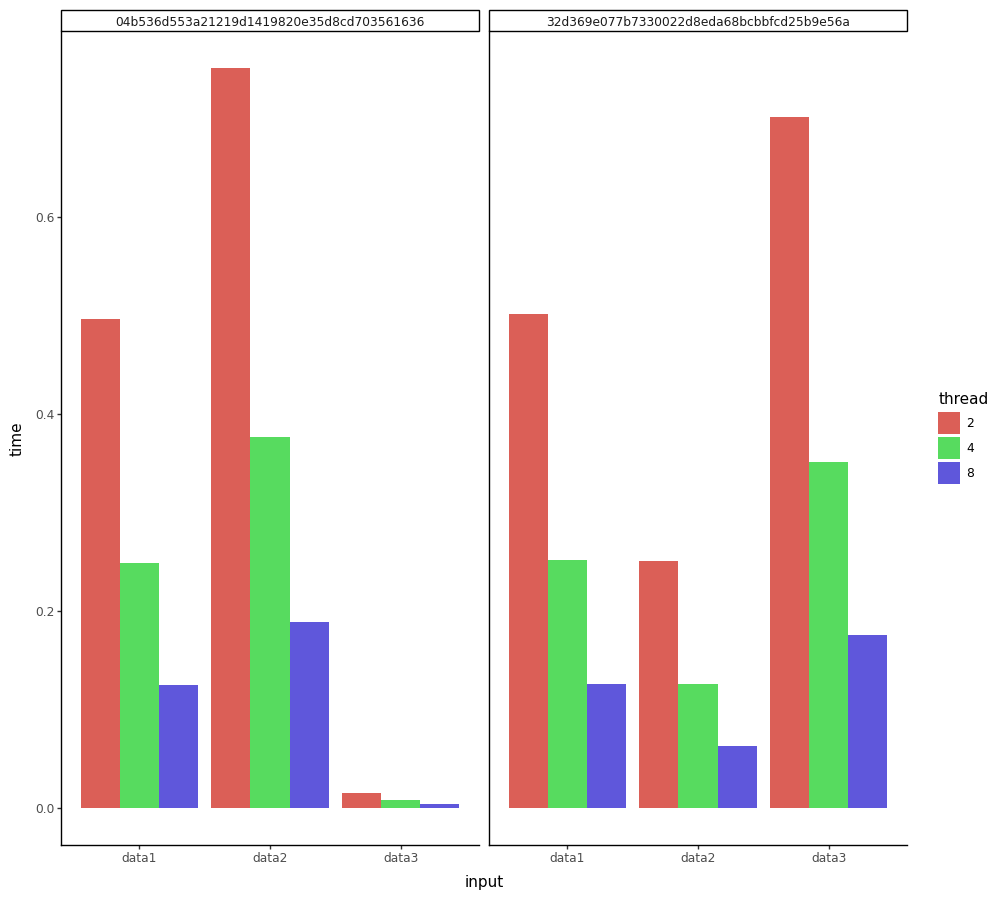
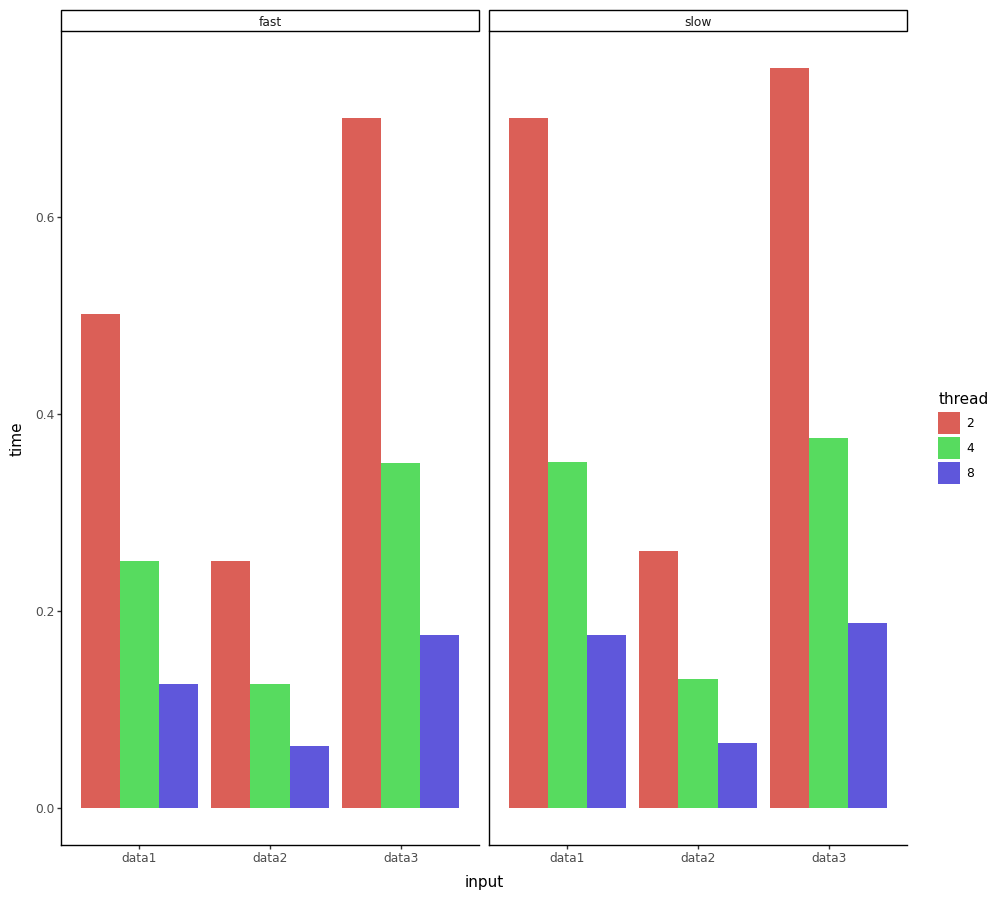
Fix: added tags instead of commits sha

diff --git a/README.md b/README.md
@@ -35,7 +35,7 @@ Benchmarker is configured using a YAML file, e.g.:
 ---
 matrix:
   thread: [2, 4, 8]
-  tag: ["15d80c0757b5df02ff0b13def678ec7969bc8285", "e368bf5f04493508f2adcf55c95d2cb78fa87e8c"]
+  tag: ["slow", "fast"]
   input: ["data1", "data2", "data3"]
 run:
   before:
@@ -112,12 +112,12 @@ For example, the config above will generate this `plot.png`:
 
 And this `table.md`:
 ```markdown
-| commit                                   | input   |   time |
-|:-----------------------------------------|:--------|-------:|
-| 04b536d553a21219d1419820e35d8cd703561636 | data1   | 0.2901 |
-| 04b536d553a21219d1419820e35d8cd703561636 | data2   | 0.4389 |
-| 04b536d553a21219d1419820e35d8cd703561636 | data3   | 0.0097 |
-| 32d369e077b7330022d8eda68bcbbfcd25b9e56a | data1   | 0.2929 |
-| 32d369e077b7330022d8eda68bcbbfcd25b9e56a | data2   | 0.1468 |
-| 32d369e077b7330022d8eda68bcbbfcd25b9e56a | data3   | 0.4097 |
+| tag   | input   |   time |
+|:------|:--------|-------:|
+| fast  | data1   | 0.2929 |
+| fast  | data2   | 0.1471 |
+| fast  | data3   | 0.4096 |
+| slow  | data1   | 0.4095 |
+| slow  | data2   | 0.1528 |
+| slow  | data3   | 0.4387 |
 ```
